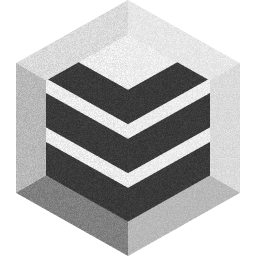
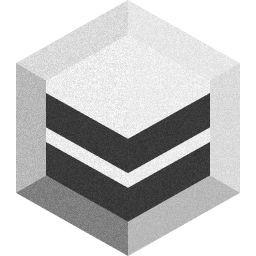
rank changes

Changed region(s): [[0.1875, 0.25, 0.8125, 0.5]]

diff --git a/src/pages/ranks.tsx b/src/pages/ranks.tsx
@@ -57,7 +57,7 @@ const UserRanks: React.FC = () => {
             <Image
               width={200}
               height={200}
-              src="/img/results/6angle.png"
+              src="/img/ranks/01.png"
               alt="next-rank"
             />
             <p className="absolute left-1/2 top-1/2 -translate-x-1/2 -translate-y-1/2 text-6xl font-bold text-gray-700">
